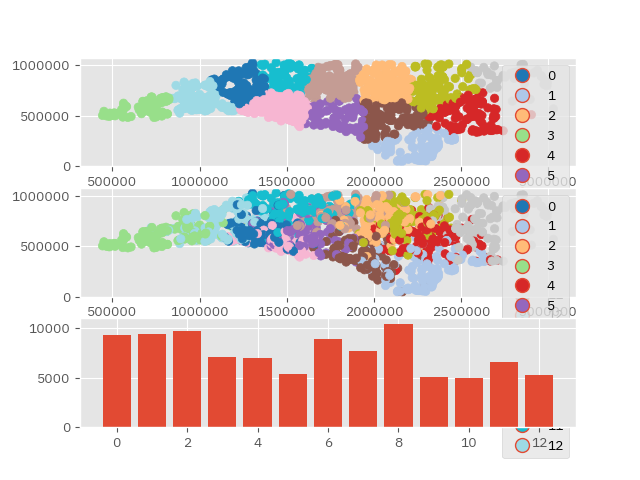
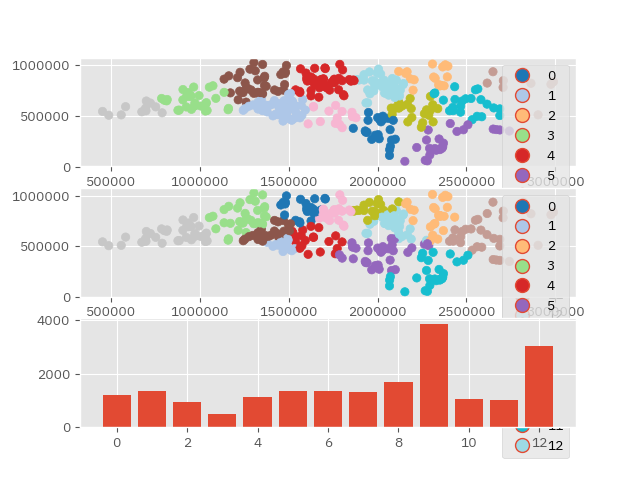
Changed alg a little, have a new plan in the right direction

diff --git a/assignmentalg.py b/assignmentalg.py
@@ -24,9 +24,8 @@ class AssignmentAlg:
         n_points = points.shape[0]
         n_centers = centers.shape[0]
         # add one to avoid taking log of 0
-        max_pop = np.ceil(np.sum(pops) / n_centers) + 1
-        order = np.arange(points.shape[0])
-        np.random.shuffle(order)
+        max_pop = np.ceil(np.sum(pops) / n_centers) + 1        
+        order = np.argsort(np.apply_along_axis(self.nearest, 1, points, centers))
         # to store district assignments
         assignments = np.zeros_like(order)
         # to store district populations
@@ -38,22 +37,26 @@ class AssignmentAlg:
             # increase population in cluster by one after assignment
             pops[assignment] += 1
         return assignments
+    def nearest(self, point, others):
+        """Finds the smallest distance between the given point and given list of other points."""
+        return np.min(np.sum((others - point) ** 2, axis=1))
     def population_com(self, points, pops):
         """Computes the population-weighted center of mass for points with populations."""
         return np.average(points, axis=0, weights=pops)
-    def optimize(self, points, pops, centers, alpha, beta, gamma=0.8, n_iter=10):
-        """Given a set of points, their populations, and cluster centers, repeatedly assigns the
-        points to clusters and then resets the centers, hoping to achieve an optimal assignment.
-        Alpha and beta are proximity and capacity sensitivity weights, but they change for more
-        efficient optimization: the given values are only the initials, over time they weight more
-        towards capacity as controlled by gamma, which lies between 0 and 1."""
+    def optimize(self, points, pops, centers, alpha, beta, gamma=0.8, n_iter=100):
+        """Given a set of points, their populations, and cluster centers, repeatedly assigns the points to
+        clusters and then resets the centers, hoping to achieve an optimal assignment.  Alpha and
+        beta are proximity and capacity sensitivity weights, but they change for more efficient
+        optimization: the given values are only the initials, over time they weight more towards
+        distance as controlled by gamma, which lies between 0 and 1.
+        """
         assignments = self.assign(points, pops, centers, alpha, beta)
         new_alpha = alpha
         new_beta = beta
         for i in range(n_iter-1):  # already assigned once
             # compute alpha and beta for this run
-            new_alpha *= gamma
-            new_beta /= gamma
+            new_alpha /= gamma
+            new_beta *= gamma
             # compute new centers
             new_centers = np.array([self.population_com(points[assignments == d], pops[assignments == d])
                                     for d in range(centers.shape[0])])

diff --git a/size_elastic_k_means.py b/size_elastic_k_means.py
@@ -17,7 +17,7 @@ blocks["x"] = blocks["geometry"].x
 blocks["y"] = blocks["geometry"].y
 
 pop_blocks = blocks[blocks["POP10"] > 0].copy()
-pop_blocks = pop_blocks[::100]  # reduce the amount of time it takes to run this
+pop_blocks = pop_blocks[::500]  # reduce the amount of time it takes to run this
 
 points = pop_blocks[["x", "y"]].as_matrix()
 # normalize distances by constant factor so that the max values in any dimension is 1, preserving
@@ -41,7 +41,7 @@ pop_blocks.plot(ax=ax, column="kmeans", categorical=True,
                 cmap="tab20", legend=True, figsize=(20, 10))
 
 ax2 = fig.add_subplot("312")
-pop_blocks["new"] = alg.optimize(points, pop_blocks["POP10"], centers, 10, 10)
+pop_blocks["new"] = alg.optimize(points, pop_blocks["POP10"], centers, 10, 1000)
 pop_blocks.plot(ax=ax2, column="new", categorical=True,
                 cmap="tab20", legend=True, figsize=(20, 10))
 
